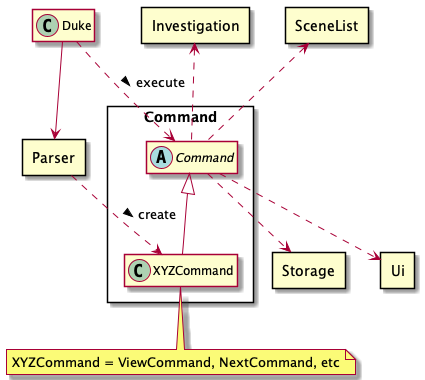
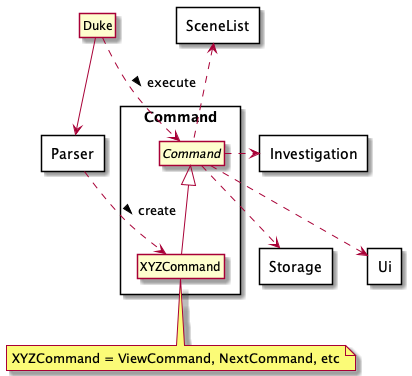
Update command class diagram and description

diff --git a/docs/DeveloperGuide.md b/docs/DeveloperGuide.md
@@ -116,8 +116,8 @@ Here’s a (partial) class diagram of the `Command` component:
 How the `Command` componnet works:
 1. The user input is first parsed using the `Parse` component
 2. This results in a `Command` object (more precisely, an object of one of its subclasses e.g., NextCommand), which is executed by `Duke`.
-3. The command can communicate with the `Ui`, `Investigation` and `SceneList` when it is executed (e.g. to go to the next scene).
-4. Some of the commands may update the `Storage`.
+3. The command can invoke the `Ui`, `Investigation` and `SceneList` when it is executed (e.g. to go to the next scene).
+4. Some commands such as next and note will update the `Storage`.
 
 
 The Sequence Diagram [below](./next_command_sequence_diagram.png) illustrates within the `Command` component for the `execute(ui,investigation,sceneList)` method call of the `NextCommand` class.
